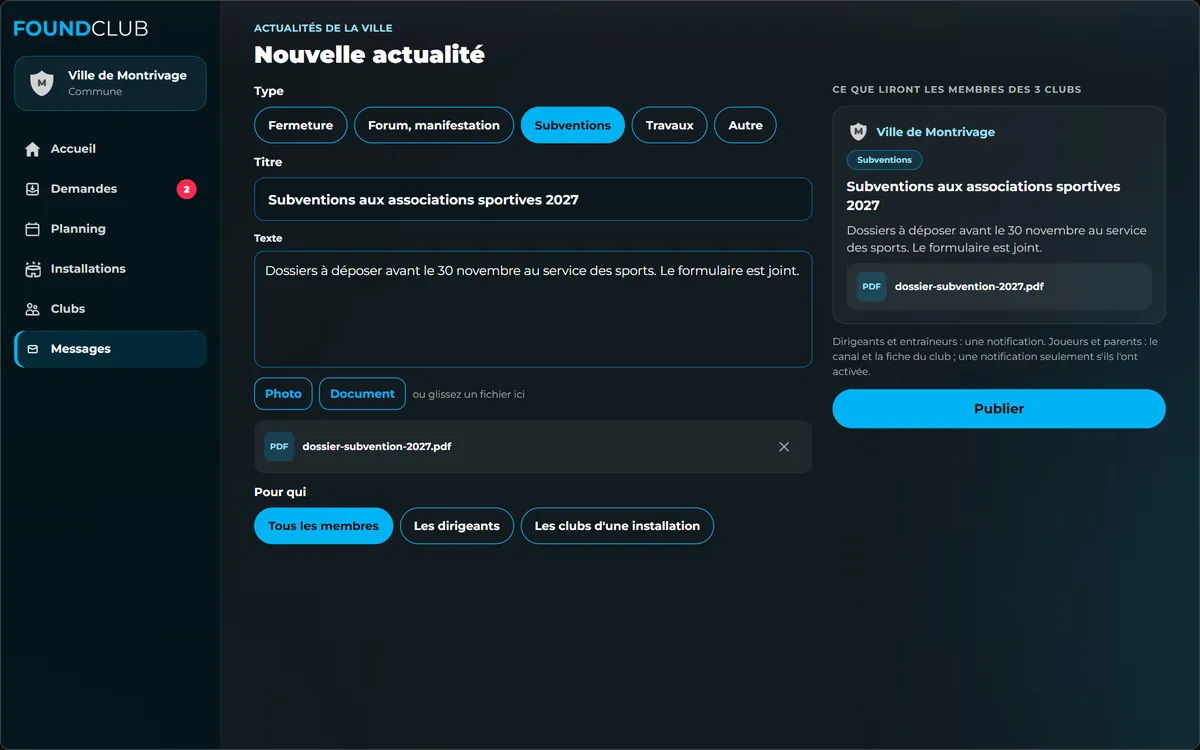
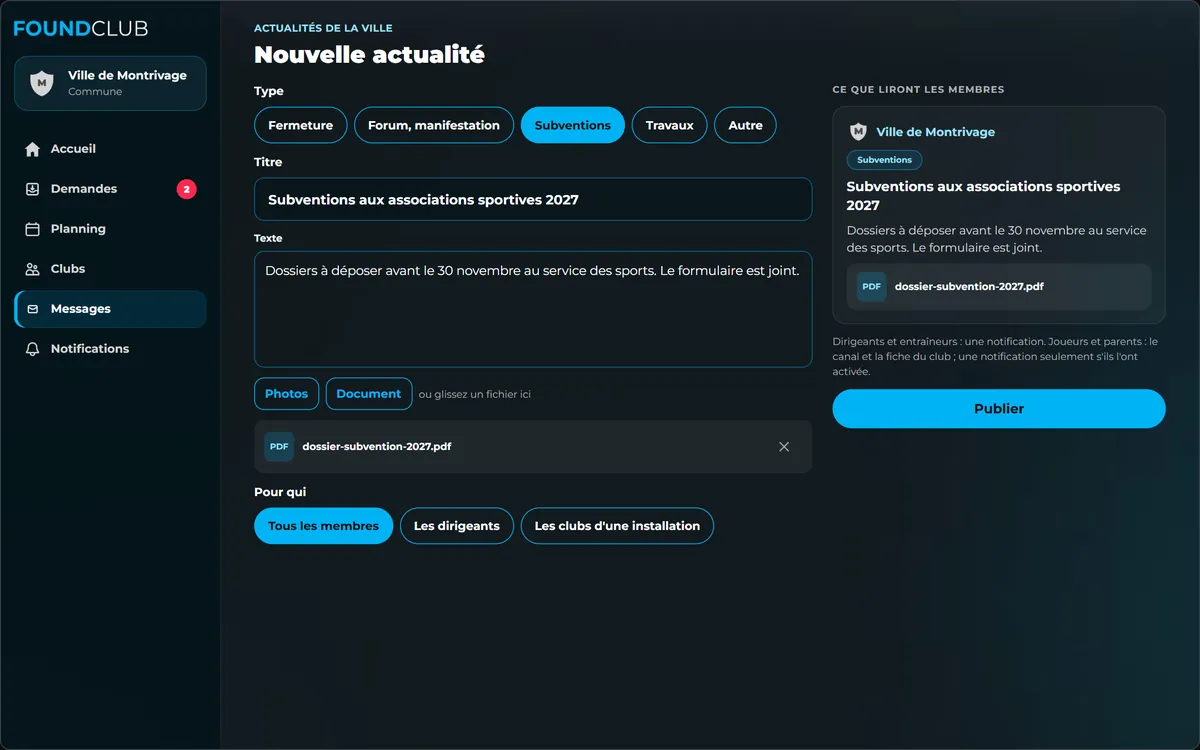
LANDING-COLLECTIVITES : écrans de la Ville alignés sur la version publiée (contrôle adverse)
Un vérificateur a comparé les 16 écrans aux libellés et au code publiés (app 763512aa, web 5ee9c469,
serveur 459277b4) : 1 bouton absent, des écarts de libellés. Corrigé à la source (rendu des maquettes) :
- planning : « Bloquer ce jeudi seulement » et « Avec AS Montrivage · U15 : complet » retirés
  (absents ; le panneau publié n'a que Modifier, Retirer, Écrire aux dirigeants) ;
- menu de la Ville sur ordinateur, 9 écrans : « Installations » retiré, « Notifications » ajouté
  (AppShell.tsx:479-558) ; la page courante passe sur « Planning » qui ouvre les installations ;
- accueil : « Installations → », « Voir les clubs → », « Envoyée aux membres des 3 clubs »,
  pas de cloche sur le site (CollectiviteHome.js:1038) ;
- clubs : « Dirigeant : », « Pas de contact renseigné par le club. », adresse de contact fictive
  (contact@club-montrivage.example) au lieu du domaine de FoundClub ;
- actualité : « Photos », « Ce que liront les membres » ; invitation : phrase jamais affichée retirée.
check-landing : 0 erreur sur index, collectivites, collectivites-ecrans ; 16 images, 570 440 o.

Changed region(s): [[0.0, 0.3373, 0.185, 0.4907], [0.2467, 0.4907, 0.4317, 0.552], [0.8325, 0.092, 0.8942, 0.1227]]

diff --git a/collectivites-ecrans.html b/collectivites-ecrans.html
@@ -79,7 +79,7 @@
         <h2 id="titre-accueil-ville">L'accueil de la Ville</h2>
         <p class="chapeau">Ce qui vous attend, vos six actions, la semaine de vos installations, vos clubs en nombres et vos actualités.</p>
         <div class="ecrans ecrans--duo">
-          <figure class="ecran-fig"><a href="images/collectivites/accueil.webp"><img src="images/collectivites/accueil.webp" width="1200" height="750" loading="lazy" decoding="async" alt="Accueil de la Ville sur ordinateur : menu Accueil, Demandes, Planning, Installations, Clubs, Messages ; six actions ; deux demandes en attente ; la semaine du Gymnase des Tilleuls ; trois clubs ; deux actualités"></a><figcaption><strong>Sur ordinateur.</strong> Le menu de la Ville à gauche, les actions en haut.</figcaption></figure>
+          <figure class="ecran-fig"><a href="images/collectivites/accueil.webp"><img src="images/collectivites/accueil.webp" width="1200" height="750" loading="lazy" decoding="async" alt="Accueil de la Ville sur ordinateur : menu Accueil, Demandes, Planning, Clubs, Messages, Notifications ; six actions ; deux demandes en attente ; la semaine du Gymnase des Tilleuls ; trois clubs ; deux actualités"></a><figcaption><strong>Sur ordinateur.</strong> Le menu de la Ville à gauche, les actions en haut.</figcaption></figure>
           <figure class="ecran-fig ecran-fig--tel"><a href="images/collectivites/accueil-tel.webp"><img src="images/collectivites/accueil-tel.webp" width="412" height="980" loading="lazy" decoding="async" alt="Accueil de la Ville sur téléphone : une demande d'AS Montrivage avec Refuser et Accepter, une fermeture à venir, les actions"></a><figcaption><strong>Sur téléphone.</strong> Les mêmes blocs, en colonne.</figcaption></figure>
         </div>
       </div>
